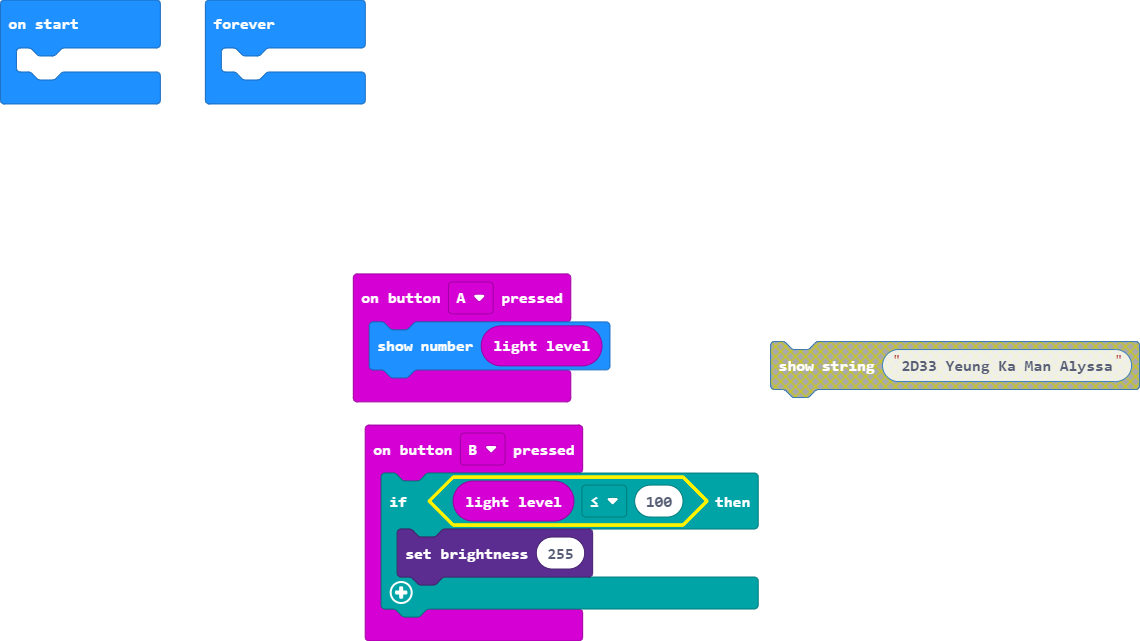
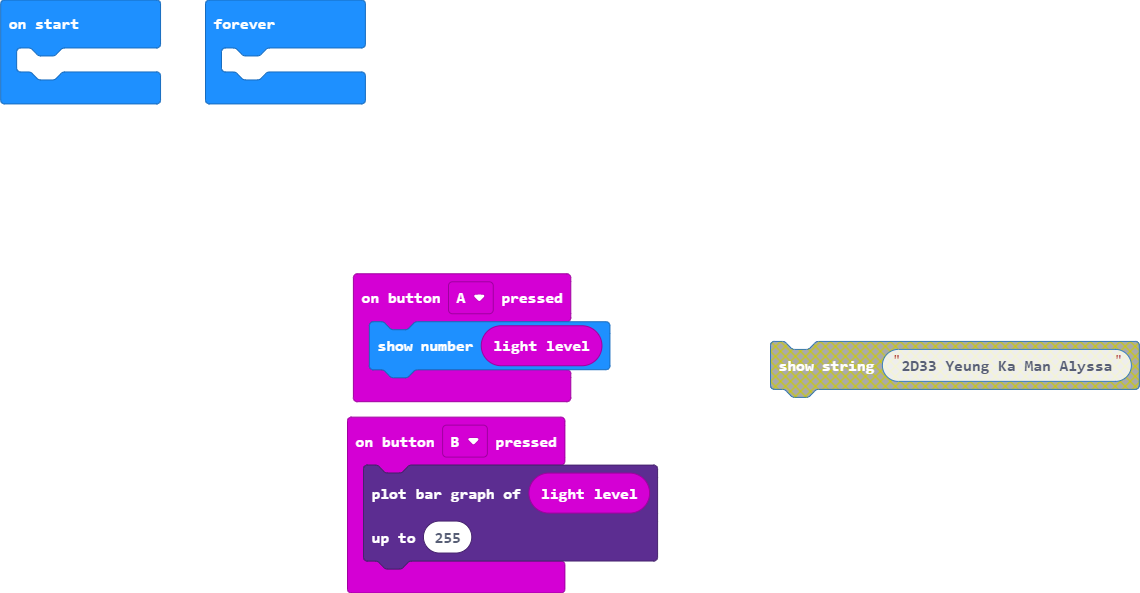
Update main.blocks, main.ts

diff --git a/main.ts b/main.ts
@@ -2,9 +2,10 @@ input.onButtonPressed(Button.A, function () {
     basic.showNumber(input.lightLevel())
 })
 input.onButtonPressed(Button.B, function () {
-    if (input.lightLevel() <= 100) {
-        led.setBrightness(255)
-    }
+    led.plotBarGraph(
+    input.lightLevel(),
+    255
+    )
 })
 basic.forever(function () {
 	
